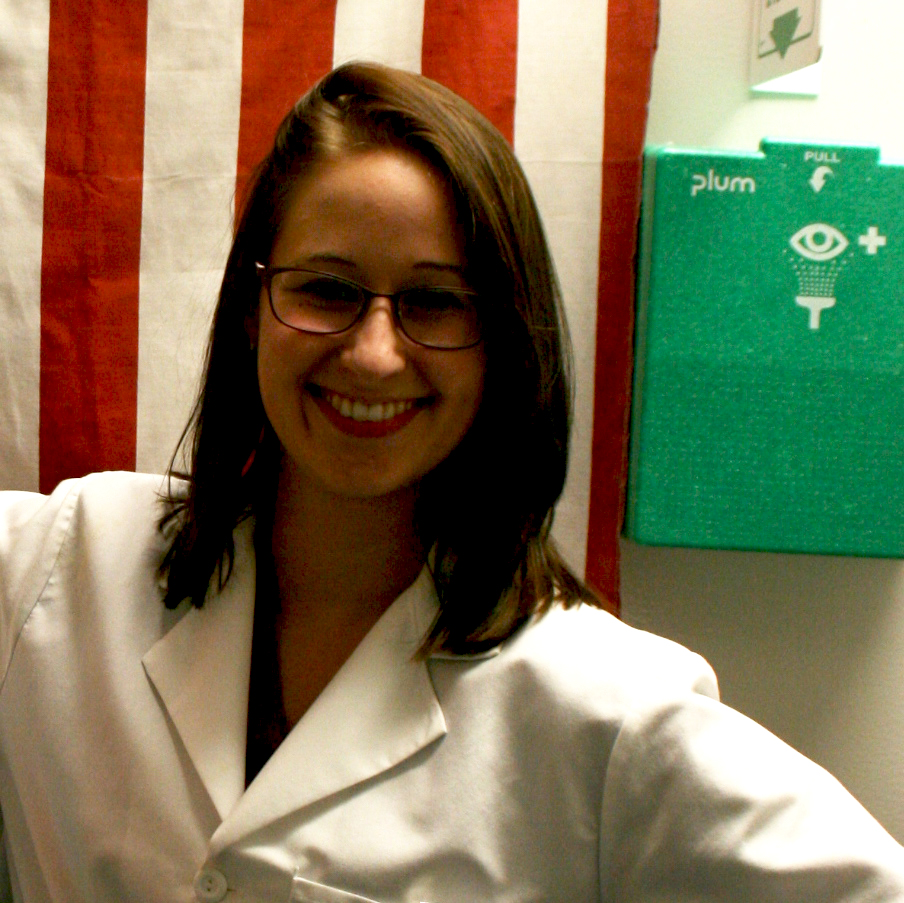
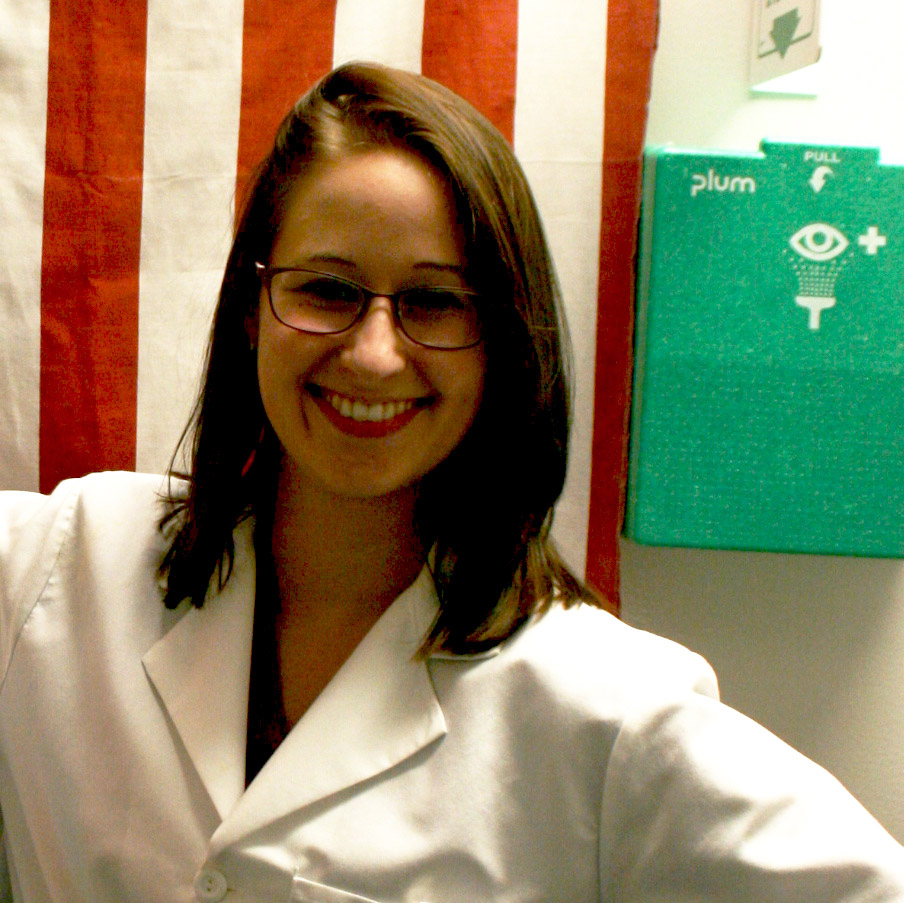
updated team pages

diff --git a/team/EmilyBodamer.php b/team/EmilyBodamer.php
@@ -1,0 +1,66 @@
+<?php $thisPage="Emily Bodamer"; $sub=1; $dot="eeb5"; ?>
+<!DOCTYPE html>
+<html lang="en"><head>
+	
+	<?php include_once("../includes/head.php") ?>
+  
+  </head>
+  
+  <body>
+  
+    <!-- Google Analytics -->
+  	<?php include_once("../includes/analyticstracking.php") ?>
+    
+    <div id="wrap">
+    
+		<!-- NAVBAR
+		================================================== -->
+   		<?php include("../includes/navigation.php"); ?>
+
+		    <!-- infomation
+    ================================================== --> 
+<div class="container marketing no-carousel"> 
+	<div class="row">
+	
+		<div class="col-xs-12 col-md-4 pull-left" style="font-size:80%; text-align:center">
+			<img src="../img/team/bodamere.jpg" alt="Emily Bodamer" style="max-width: 300px; height: auto; padding-bottom:0.5em"><br>
+			<p>Email: bodamer.5@osu.edu</p>
+			<p>Website: <a href="http://emilybodamer.weebly.com">http://emilybodamer.weebly.com</a></p>
+		</div><!-- /.span -->
+	
+		<div class="col-xs-12 col-md-8">
+			<h3>Emily Bodamer</h3>
+			<p>Started: November 2014</p>
+			<p>Emily Bodamer is a Biomedical Engineering major at The Ohio State University, planning to graduate in Spring 2016. She is from Youngstown, Ohio. In the lab, she is involved in the SCID mouse study and the End-to-End 3D Printing study. Within the End-to-End 3D Printing, she works primarily on the adhesion study. She is also involved in the laboratory administration (signage, inventory, and organization).
+			</p>
+			<br>
+		</div><!-- /.span -->
+	</div><!-- /.row -->
+	
+	<div class="row">
+		<div class="col-xs-12">
+
+			<div id="instafeed" class="row"></div><!-- /.row -->
+		
+		</div><!-- /span -->
+	</div><!-- /.row -->
+	
+</div><!-- /.container -->
+	
+	   
+
+</div><!-- /.wrap -->
+
+       <!-- Footer
+    ================================================== --> 
+      <?php include("../includes/footer.php"); ?>
+	
+    <!-- Bootstrap core JavaScript
+    ================================================== -->
+    <!-- Placed at the end of the document so the pages load faster -->
+    <script src="https://code.jquery.com/jquery-1.10.2.min.js"></script>
+    <script src="../js/bootstrap.min.js"></script>
+    <script src="../js/holder.js"></script>
+  	<?php include("../includes/teamjs.php"); ?>
+
+</body></html>

diff --git a/team.php b/team.php
@@ -123,15 +123,15 @@
 			</div><!-- /.row -->
 		</div><!-- /span -->	
 		
-		<!-- ==================== Alexis Cantu ======================================= -->
+		<!-- ==================== Emily Bodamer ======================================= -->
 		
 		<div class="col-xs-12 col-sm-6 col-md-4">
 			<div class="row team">
 				<div class="col-xs-12">
-					<img class="img-circle" src="img/team/cantul.jpg" >
-					<h2>Lexi Cantu</h2>
+					<img class="img-circle" src="img/team/bodamere.jpg" >
+					<h2>Emily Bodamer</h2>
 					<p>Undergraduate Research Assistant.</p>
-					<p><a class="btn btn-default" href="team/LexiCantu">View details &raquo;</a></p>
+					<p><a class="btn btn-default" href="team/EmilyBodamer">View details &raquo;</a></p>
 				</div><!-- /.col-lg-4 -->
 			</div><!-- /.row -->
 		</div><!-- /span -->					
